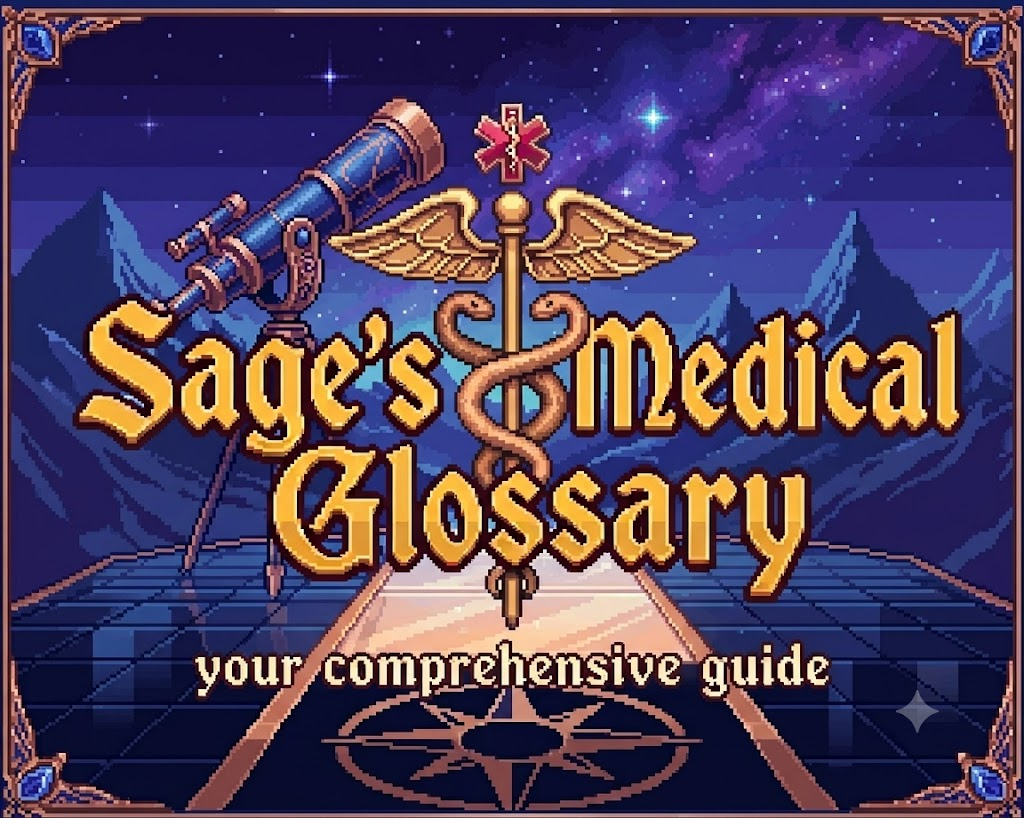
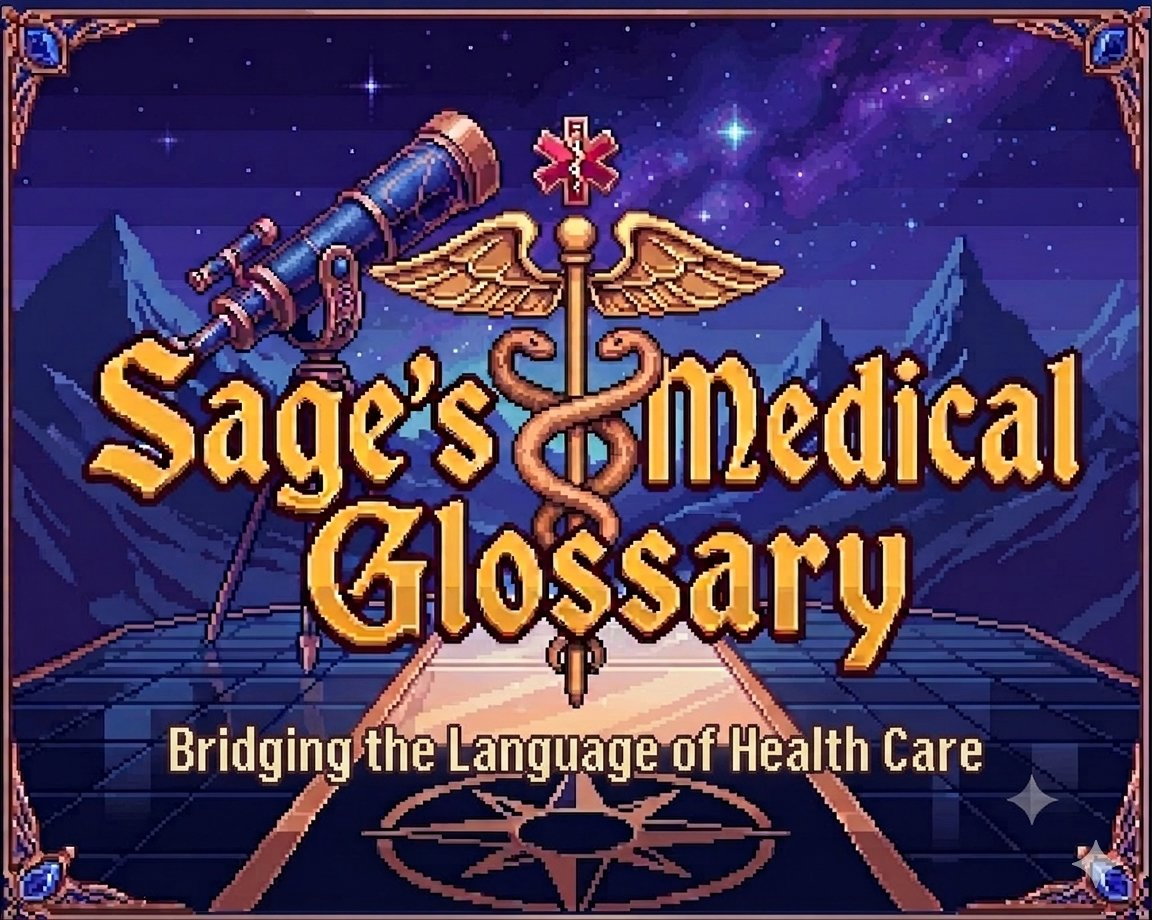
Landing image
Landing page image update

diff --git a/src/app/layout.tsx b/src/app/layout.tsx
@@ -9,16 +9,24 @@ function SiteHeader({ toggleMode, isDay }: { toggleMode: () => void; isDay: bool
   const isHome = typeof window !== 'undefined' && window.location.pathname === '/'
   return (
     <header className="site-header">
-      {!isHome && (
-        <Link href="/" className="site-header__back">← Home</Link>
-      )}
-      {isHome && (
-        <div style={{ width: '60px' }} />
-      )}
+      {!isHome
+        ? <Link href="/" className="site-header__back">← Home</Link>
+        : <div style={{ width:'60px' }} />
+      }
       <div className="site-header__title">
         {isHome
-          ? <Image src="/images/hero.jpg" alt="Sage's Medical Glossary" width={320} height={240} style={{ display: 'block', margin: '0 auto', imageRendering: 'pixelated', width: '100%', maxWidth: '320px', height: 'auto' }} priority />
-          : "Sage's Medical Glossary"
+          ? <Image
+              src="/images/hero.jpg"
+              alt="Sage's Medical Glossary — Bridging the Language of Health Care"
+              width={560}
+              height={315}
+              style={{ display:'block', margin:'0 auto', imageRendering:'pixelated', width:'100%', maxWidth:'560px', height:'auto' }}
+              priority
+            />
+          : <span style={{ display:'flex', alignItems:'center', gap:'0.6rem', justifyContent:'center' }}>
+              <Image src="/images/icon.png" alt="SG" width={28} height={28} style={{ imageRendering:'pixelated' }} />
+              Sage's Medical Glossary
+            </span>
         }
       </div>
       <button
@@ -59,7 +67,8 @@ export default function RootLayout({ children }: { children: React.ReactNode }) 
     <html lang="en">
       <head>
         <title>Sage's Medical Glossary</title>
-        <meta name="description" content="Your comprehensive bilingual medical reference guide" />
+        <meta name="description" content="Bridging the Language of Health Care" />
+        <link rel="icon" href="/images/icon.png" type="image/png" />
       </head>
       <body>
         <SiteHeader toggleMode={toggleMode} isDay={isDay} />